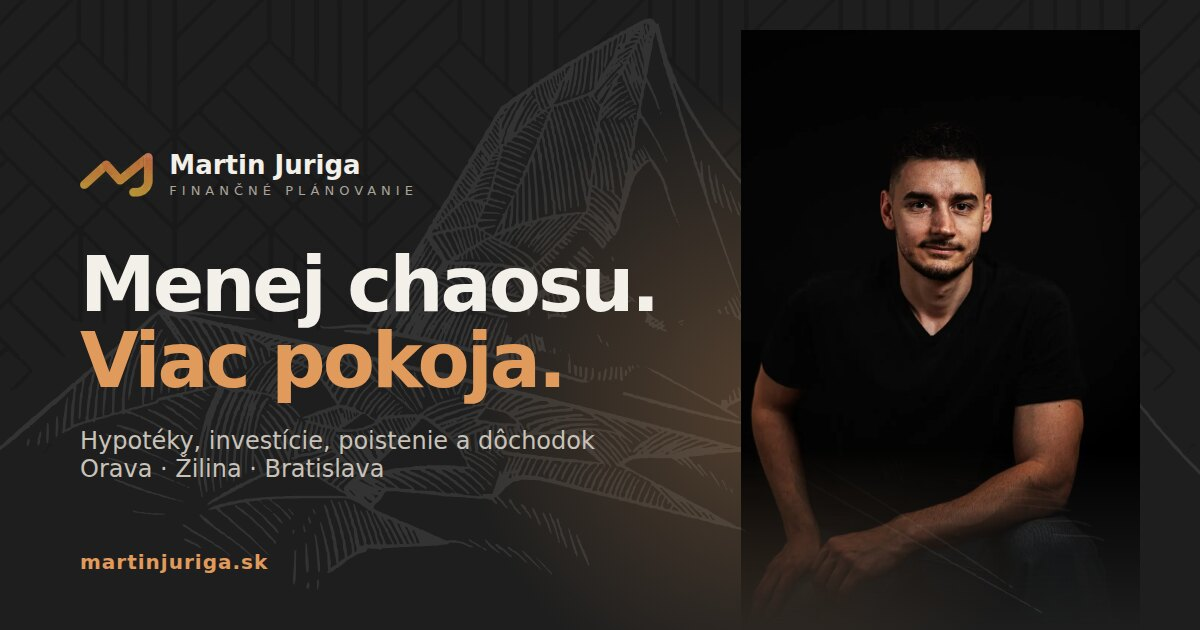
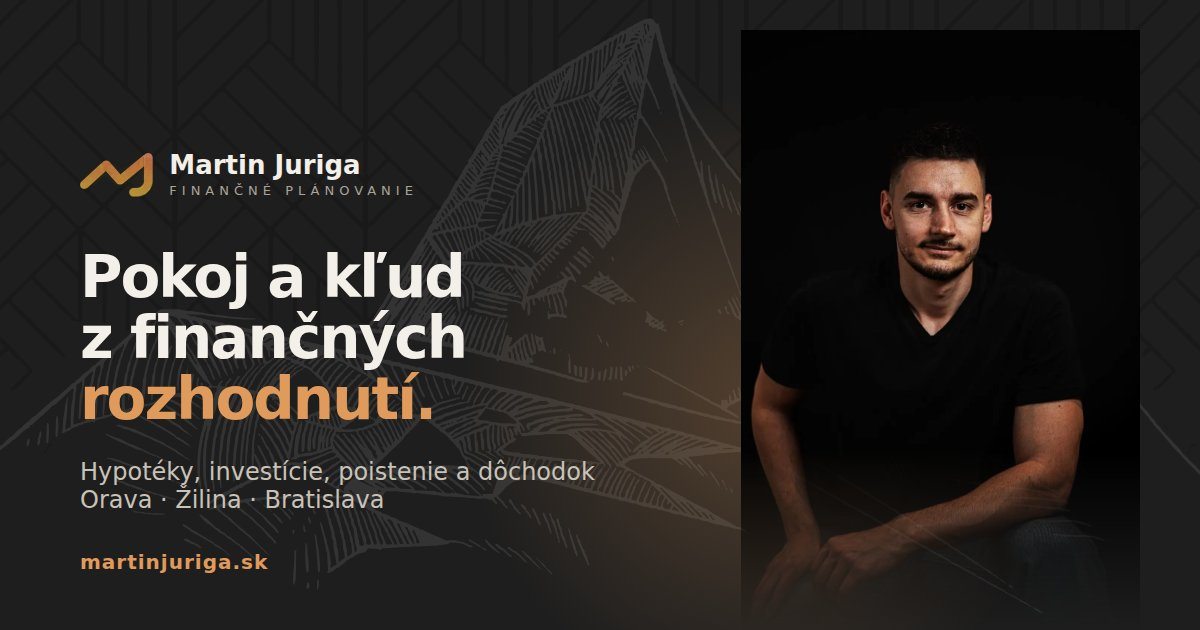
New hero headline: Pokoj a kľud z finančných rozhodnutí
Claude-Session: https://claude.ai/code/session_01XveHKLnsFwLCpa5MZjjMeN

Changed region(s): [[0.0617, 0.3921, 0.555, 0.8143]]

diff --git a/index.html b/index.html
@@ -11,7 +11,7 @@
   <link rel="apple-touch-icon" href="img/apple-touch-icon.png" />
   <meta property="og:type" content="website" />
   <meta property="og:title" content="Martin Juriga – finančné plánovanie" />
-  <meta property="og:description" content="Menej chaosu. Viac pokoja. Investície, hypotéky, poistenie a dôchodok na jednom mieste." />
+  <meta property="og:description" content="Pokoj a kľud z finančných rozhodnutí. Investície, hypotéky, poistenie a dôchodok na jednom mieste." />
   <meta property="og:url" content="https://martinjuriga.sk/" />
   <meta property="og:image" content="https://martinjuriga.sk/img/og.jpg" />
   <meta property="og:locale" content="sk_SK" />
@@ -112,7 +112,7 @@
       <div class="container hero__inner">
         <div class="hero__copy">
           <span class="pill reveal"><span class="pill__dot"></span>Finančné plánovanie na mieru</span>
-          <h1 class="hero__title reveal"><span class="line line--chaos"><span aria-label="Menej chaosu."><i style="--x:-19px;--y:-51px;--r:10deg;--d:0ms">M</i><i style="--x:23px;--y:-64px;--r:-31deg;--d:45ms">e</i><i style="--x:45px;--y:-2px;--r:-28deg;--d:90ms">n</i><i style="--x:-14px;--y:4px;--r:-33deg;--d:135ms">e</i><i style="--x:56px;--y:-6px;--r:-13deg;--d:180ms">j</i> <i style="--x:-56px;--y:-59px;--r:15deg;--d:270ms">c</i><i style="--x:-7px;--y:-62px;--r:-10deg;--d:315ms">h</i><i style="--x:-49px;--y:0px;--r:14deg;--d:360ms">a</i><i style="--x:-53px;--y:35px;--r:32deg;--d:405ms">o</i><i style="--x:-45px;--y:-42px;--r:40deg;--d:450ms">s</i><i style="--x:20px;--y:4px;--r:-33deg;--d:495ms">u</i><i style="--x:13px;--y:4px;--r:10deg;--d:540ms">.</i></span></span><span class="line"><span><span class="scribble">Viac pokoja.<svg class="scribble__line" viewBox="0 0 300 24" preserveAspectRatio="none" aria-hidden="true"><path d="M4 17C58 7 132 5 196 11c38 4 70 7 100-3"/><path d="M40 21c60-6 130-8 210-4"/></svg></span></span></span></h1>
+          <h1 class="hero__title reveal"><span class="line line--chaos"><span aria-label="Pokoj a kľud"><i style="--x:-19px;--y:-51px;--r:10deg;--d:0ms">P</i><i style="--x:23px;--y:-64px;--r:-31deg;--d:45ms">o</i><i style="--x:45px;--y:-2px;--r:-28deg;--d:90ms">k</i><i style="--x:-14px;--y:4px;--r:-33deg;--d:135ms">o</i><i style="--x:56px;--y:-6px;--r:-13deg;--d:180ms">j</i> <i style="--x:-56px;--y:-59px;--r:15deg;--d:225ms">a</i> <i style="--x:-7px;--y:-62px;--r:-10deg;--d:270ms">k</i><i style="--x:-49px;--y:0px;--r:14deg;--d:315ms">ľ</i><i style="--x:-53px;--y:2px;--r:-25deg;--d:360ms">u</i><i style="--x:-32px;--y:10px;--r:40deg;--d:405ms">d</i></span></span><span class="line"><span>z finančných <span class="scribble">rozhodnutí.<svg class="scribble__line" viewBox="0 0 300 24" preserveAspectRatio="none" aria-hidden="true"><path d="M4 17C58 7 132 5 196 11c38 4 70 7 100-3"/><path d="M40 21c60-6 130-8 210-4"/></svg></span></span></span></h1>
           <p class="hero__lead reveal">Veľa ľudí má vo financiách chaos: zmluvy, ktorým nerozumejú, a žiadny plán. Investície, hypotéky, poistenie aj dôchodok spolu dáme do poriadku, aby ste mali vo financiách pokoj.</p>
           <div class="hero__actions reveal">
             <a href="#kontakt" class="btn btn--primary">Nezáväzná konzultácia <span aria-hidden="true">→</span></a>
